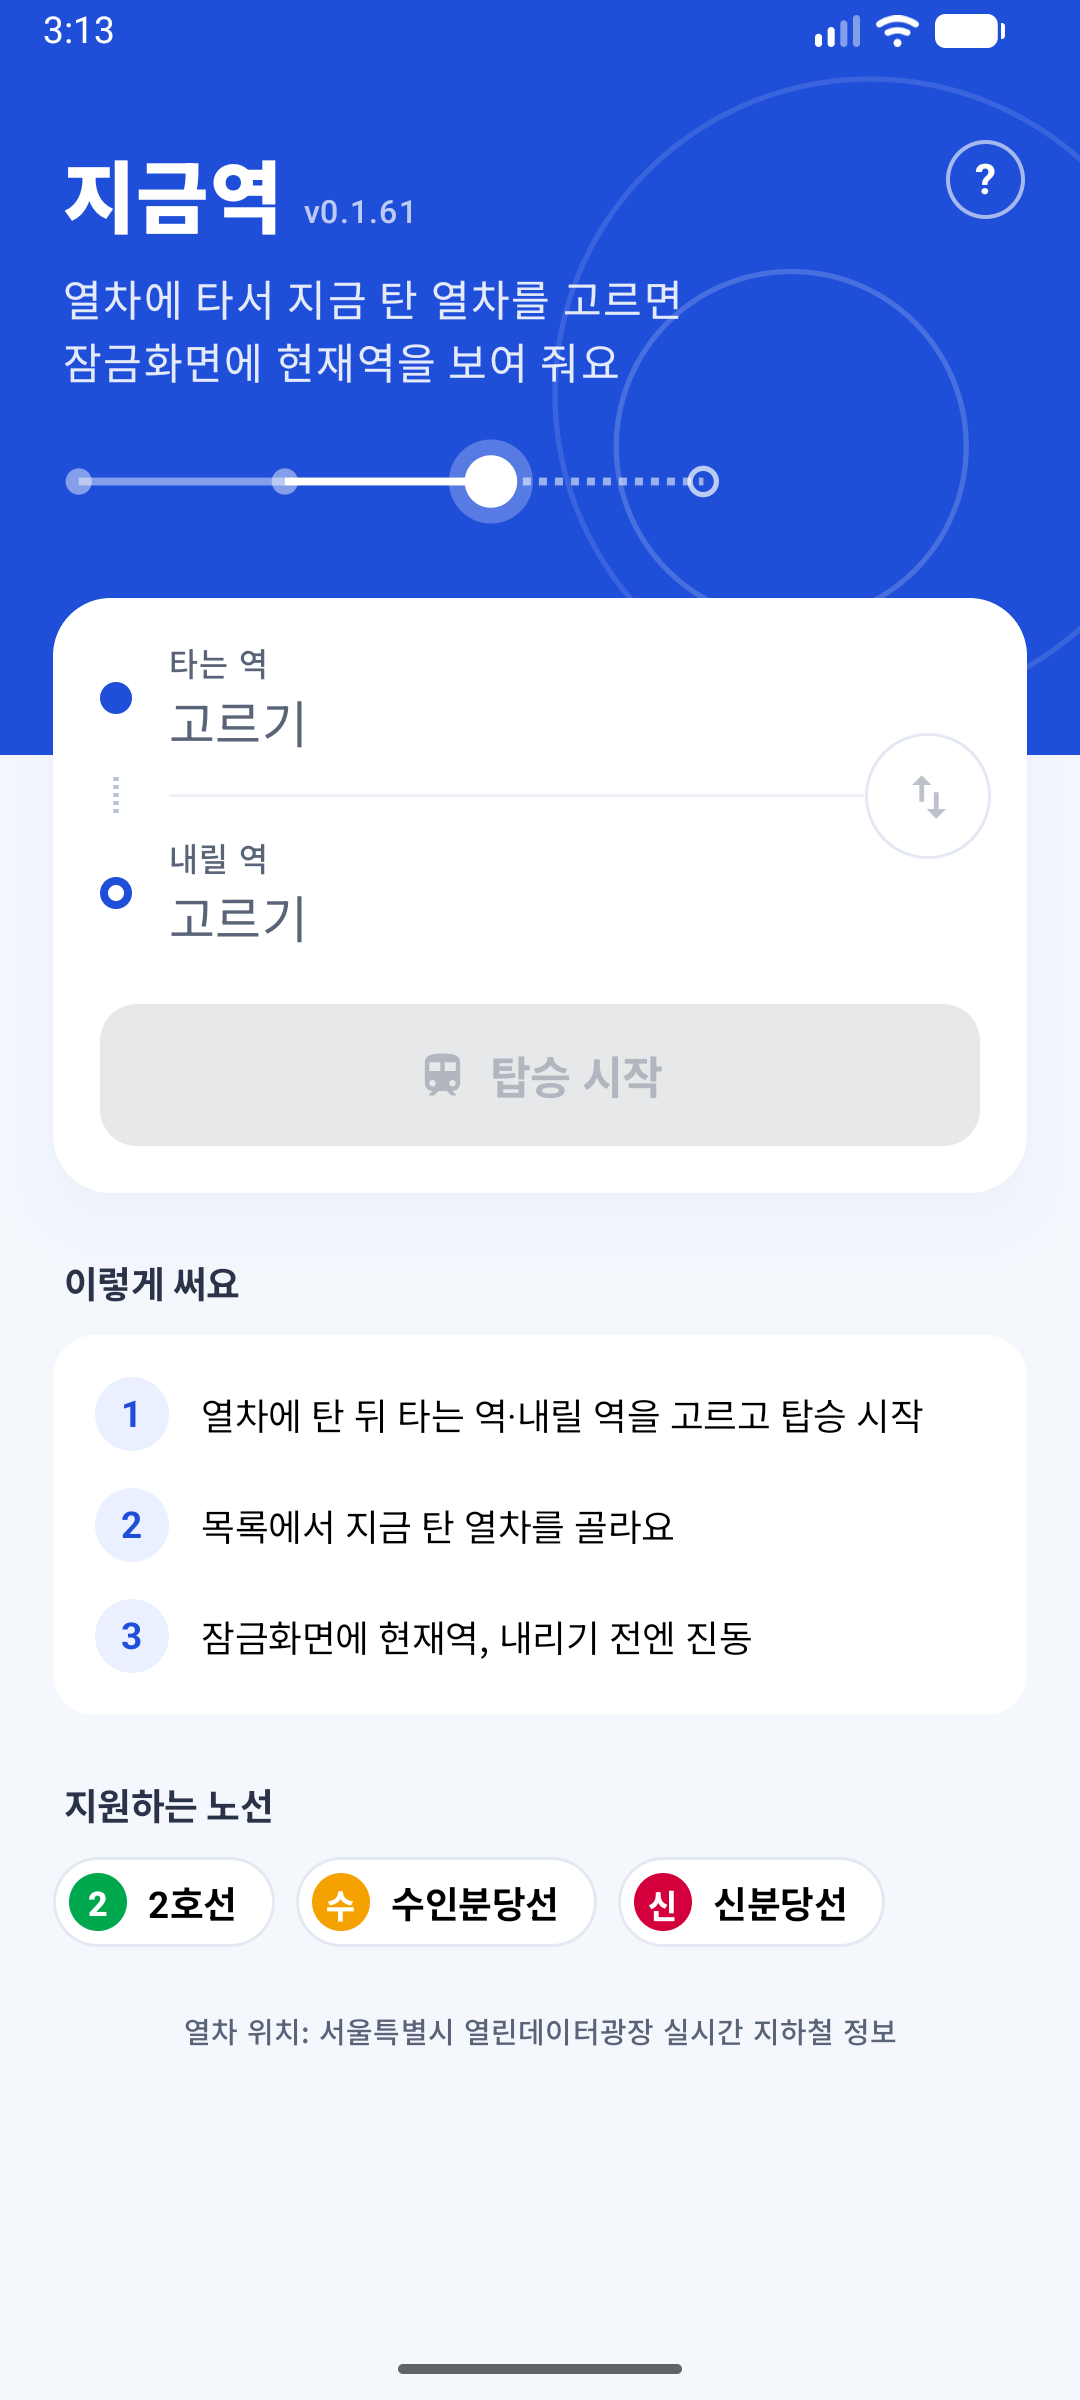
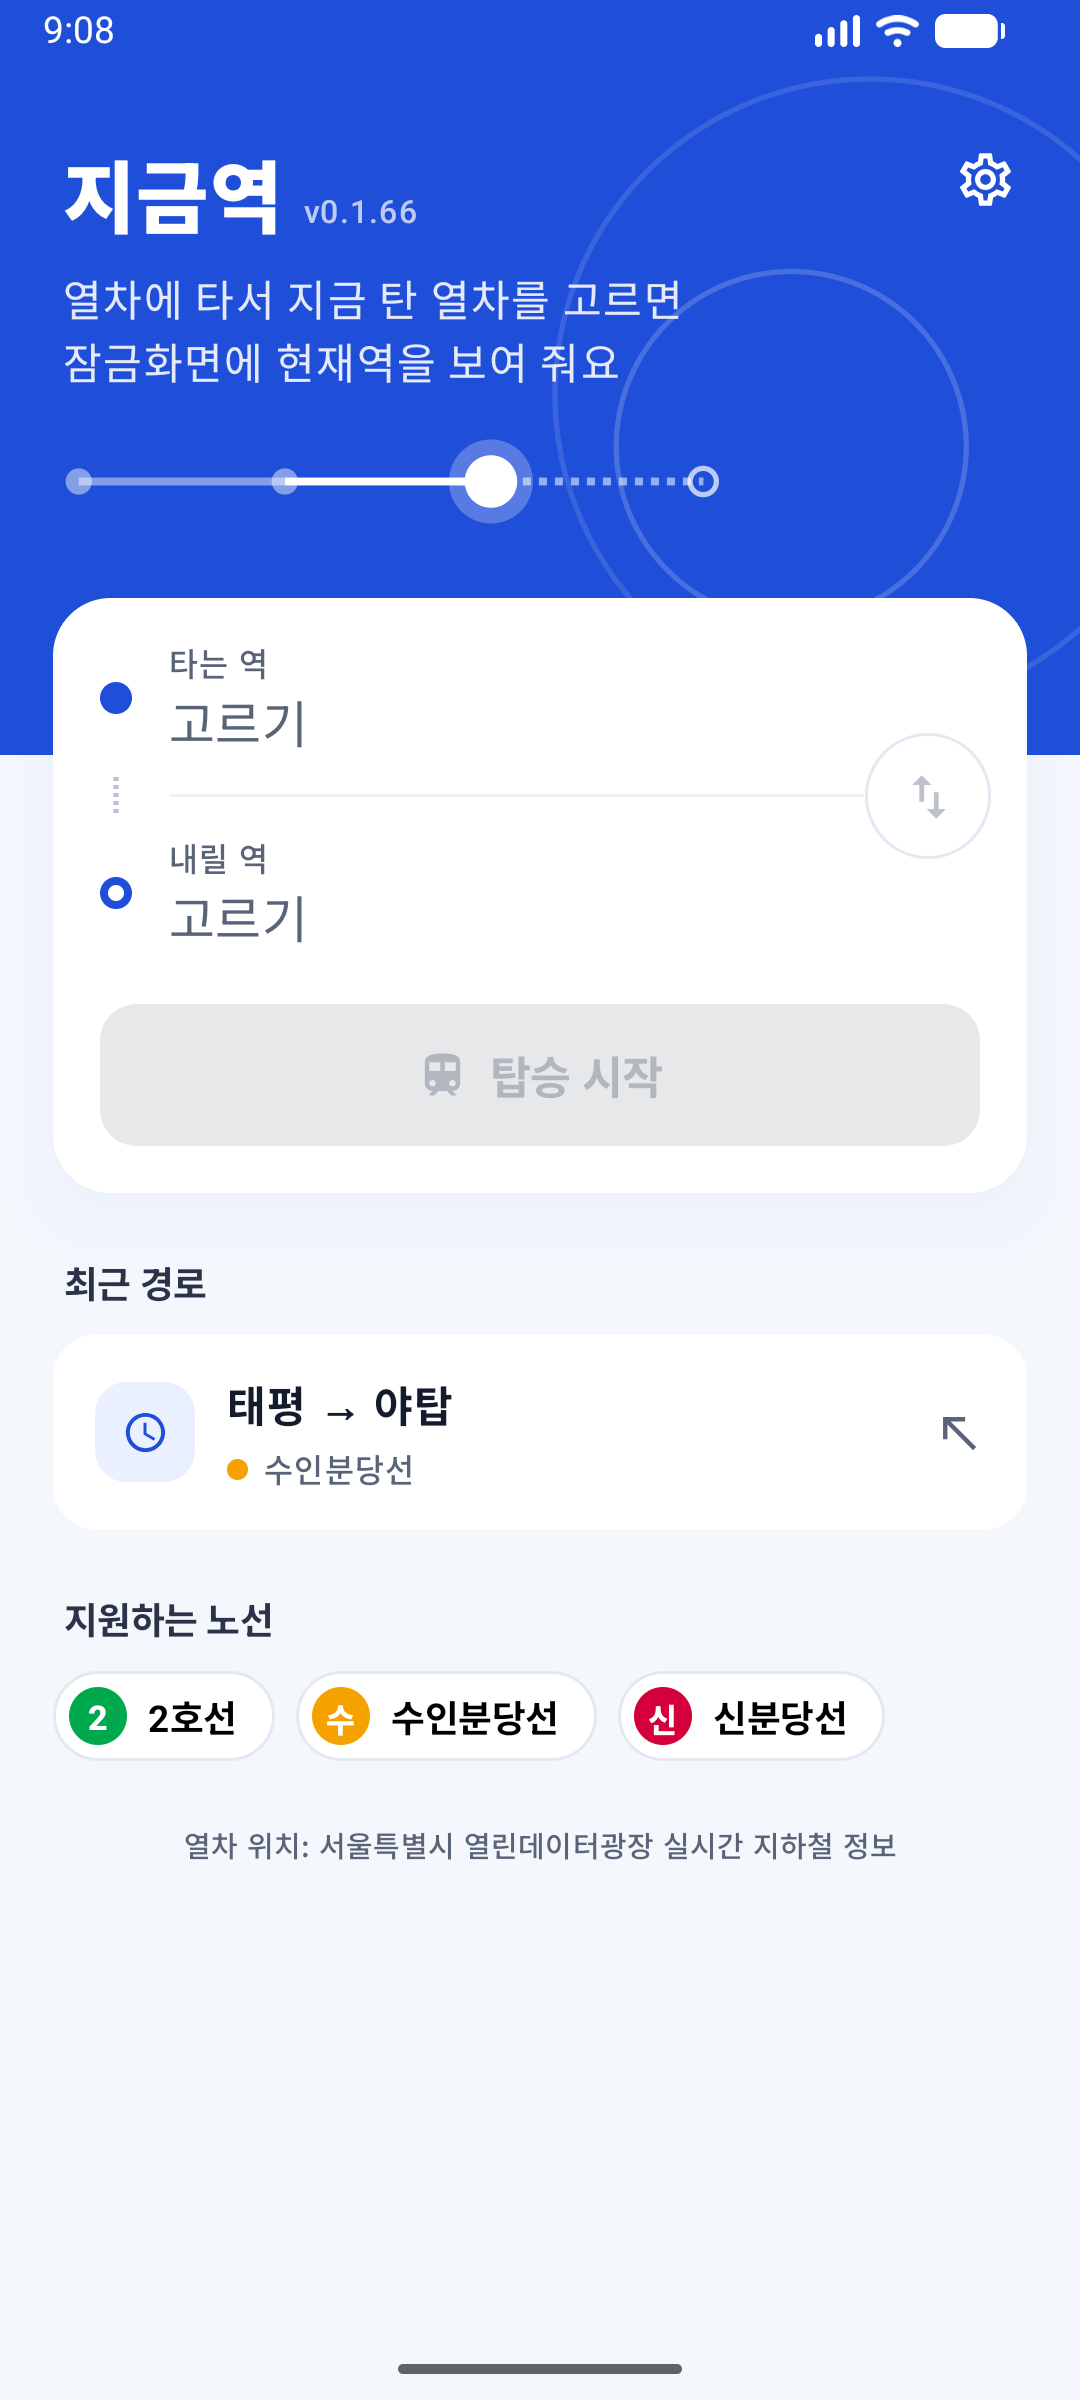
스토어·README 홈 스크린숏을 톱니바퀴(설정)가 있는 홈으로, 스토어 문서에 앱 안 개인정보처리방침 위치

diff --git a/docs/store/PLAY_STORE.md b/docs/store/PLAY_STORE.md
@@ -52,13 +52,13 @@
 |---|---|
 | 앱 아이콘 512×512 | `icon-512.png` |
 | 그래픽 이미지 1024×500 | `feature-1024x500.png` |
-| 휴대전화 스크린샷(1200×2400, 2:1, 이 순서로 8장) | `phone-1-home.png` 홈(오른쪽 위 ? = 사용법 다시 보기) · `phone-2-search.png` 역 검색 · `phone-3-incoming.png` 들어오는 열차 고르기 · `phone-4-riding.png` 탑승 중(한 정거장 전 띠) · `phone-5-alight.png` 내릴 준비 · `phone-6-over-app.png` 다른 화면 위 알림 · `phone-7-lockscreen.png` 잠금화면 · `phone-8-shade.png` 알림창(도착) |
+| 휴대전화 스크린샷(1200×2400, 2:1, 이 순서로 8장) | `phone-1-home.png` 홈(오른쪽 위 톱니바퀴 = 설정) · `phone-2-search.png` 역 검색 · `phone-3-incoming.png` 들어오는 열차 고르기 · `phone-4-riding.png` 탑승 중(한 정거장 전 띠) · `phone-5-alight.png` 내릴 준비 · `phone-6-over-app.png` 다른 화면 위 알림 · `phone-7-lockscreen.png` 잠금화면 · `phone-8-shade.png` 알림창(도착) |
 
 **분류:** 앱 카테고리 `지도/내비게이션`, 태그는 대중교통 관련
 
 **연락처:** 이메일 `sinadsl1457@gmail.com`
 
-**개인정보처리방침 URL:** `https://13-237-105-89.sslip.io/privacy` (운영자 grandsoft)
+**개인정보처리방침 URL:** `https://13-237-105-89.sslip.io/privacy` (운영자 grandsoft, 시행일 2026-11-21). **앱 안에서도** 설정 → 개인정보처리방침으로 열린다(Play 사용자 데이터 정책)
 
 ## 3. 앱 콘텐츠(정책)
 
